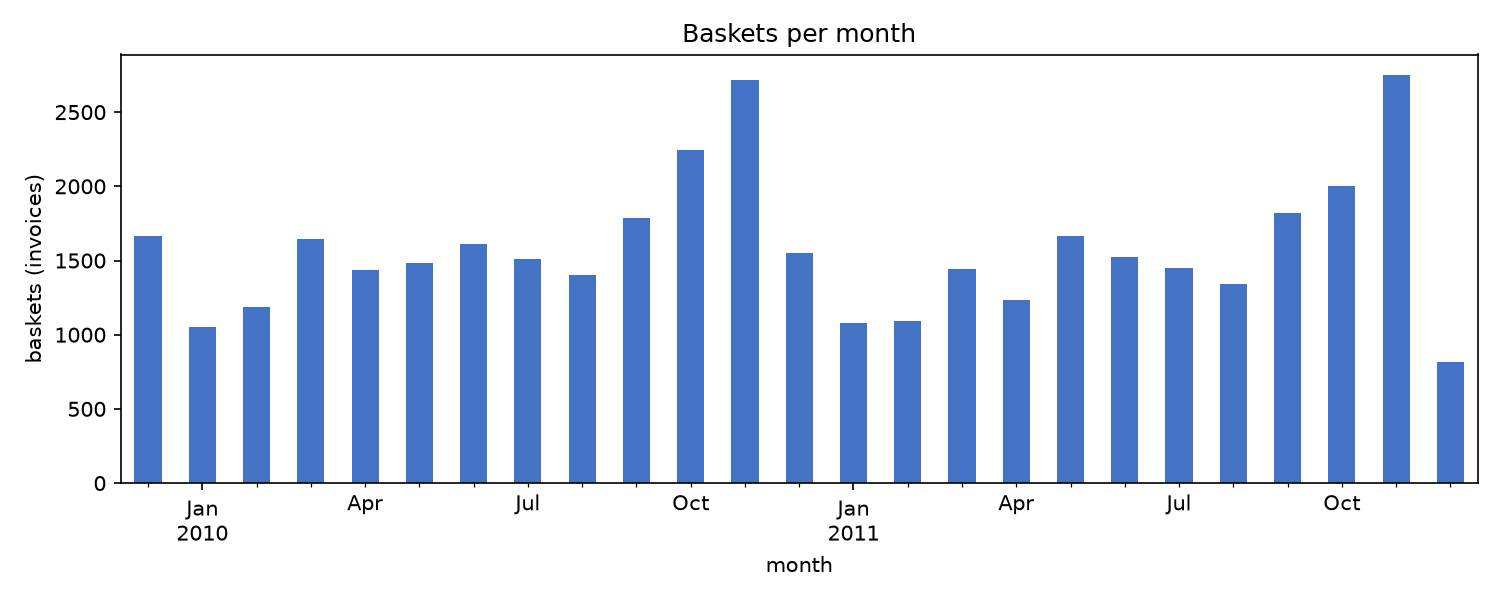
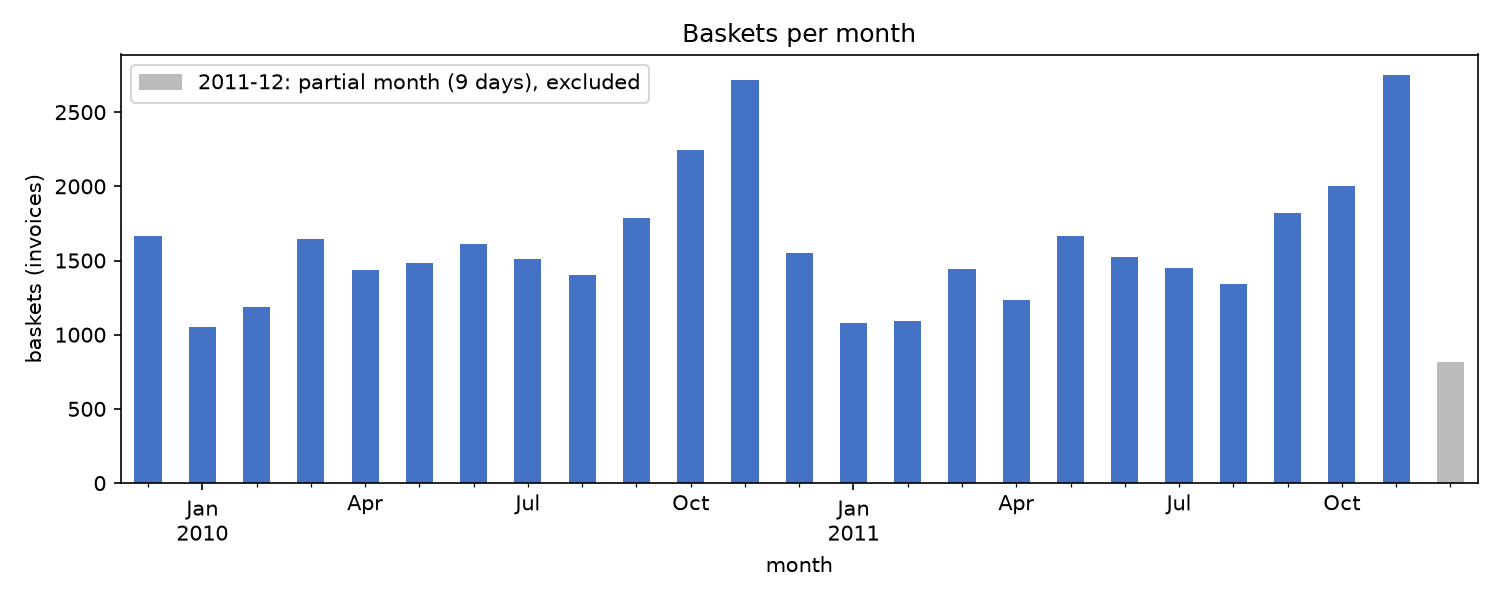
Ignore symlinked data/venv, extend T1 log, mark partial month in F1

Changed region(s): [[0.092, 0.09, 0.4293, 0.18], [0.9507, 0.6, 0.9813, 0.81]]

diff --git a/src/clean.py b/src/clean.py
@@ -11,6 +11,7 @@ ROOT = Path(__file__).resolve().parent.parent
 RAW = ROOT / "data" / "raw" / "online_retail_II.xlsx"
 INTERIM = ROOT / "data" / "interim"
 RESULTS = ROOT / "results"
+LOG = RESULTS / "cleaning_log.csv"
 
 Y1 = ("2009-12-01", "2010-12-01")  # year 1: 2009-12 .. 2010-11
 Y2 = ("2010-12-01", "2011-12-01")  # year 2: 2010-12 .. 2011-11
@@ -52,19 +53,21 @@ def build():
     df = df.rename(columns={"Invoice": "invoice", "StockCode": "code", "Description": "description",
                             "Quantity": "quantity", "InvoiceDate": "date", "Price": "price", "Country": "country"})
     log.append(("8 result", len(df)))
+    log.append(("9 baskets (invoices)", df.invoice.nunique()))
+    log.append(("10 distinct product codes", df.code.nunique()))
     return df.reset_index(drop=True), log
 
 
 def load_lines():
     """Cleaned order lines (cached parquet). Columns: invoice, code, description, quantity, date, price, customer, country."""
     path = _cache_path()
-    if path.exists():
+    if path.exists() and LOG.exists():  # rebuild if the log is missing, so T1 always has it
         return pd.read_parquet(path)
     lines, log = build()
     INTERIM.mkdir(parents=True, exist_ok=True)
     lines.to_parquet(path)
     RESULTS.mkdir(exist_ok=True)
-    pd.DataFrame(log, columns=["step", "rows"]).to_csv(RESULTS / "cleaning_log.csv", index=False)
+    pd.DataFrame(log, columns=["step", "rows"]).to_csv(LOG, index=False)
     return lines
 
 
@@ -89,6 +92,6 @@ def descriptions(lines=None):
 
 if __name__ == "__main__":
     b = load_baskets()
-    print(pd.read_csv(RESULTS / "cleaning_log.csv").to_string(index=False))
+    print(pd.read_csv(LOG).to_string(index=False))
     print("baskets", len(b), "items", len({i for t in b["items"] for i in t}))
     print(b.year.value_counts().sort_index().to_dict())

diff --git a/src/run_all.py b/src/run_all.py
@@ -11,6 +11,7 @@ import matplotlib
 
 matplotlib.use("Agg")
 import matplotlib.pyplot as plt  # noqa: E402
+from matplotlib.patches import Patch  # noqa: E402
 import pandas as pd  # noqa: E402
 
 from src import apriori, clean  # noqa: E402
@@ -19,16 +20,18 @@ RESULTS = clean.RESULTS
 
 
 def t1(b):
-    """T1: rows per cleaning step (written by clean.load_lines on first build)."""
-    log = pd.read_csv(RESULTS / "cleaning_log.csv")
+    """T1: rows per cleaning step, then basket and product counts (written by clean.load_lines when it builds)."""
+    log = pd.read_csv(clean.LOG)
     print(log.to_string(index=False))
 
 
 def f1(b):
-    """F1: baskets per month."""
+    """F1: baskets per month. 2011-12 (9 days) is drawn grey: partial month, excluded (plan §1)."""
     m = b.groupby(b.date.dt.to_period("M")).size()
     m.to_csv(RESULTS / "f1_monthly_baskets.csv", header=["baskets"])
-    ax = m.plot(kind="bar", figsize=(10, 4), color="#4472c4")
+    partial = pd.Period("2011-12", "M")
+    ax = m.plot(kind="bar", figsize=(10, 4), color=["#bbbbbb" if p == partial else "#4472c4" for p in m.index])
+    ax.legend(handles=[Patch(color="#bbbbbb", label="2011-12: partial month (9 days), excluded")], loc="upper left")
     ax.set_xlabel("month")
     ax.set_ylabel("baskets (invoices)")
     ax.set_title("Baskets per month")

diff --git a/reviews/draft1_review.md b/reviews/draft1_review.md
@@ -19,7 +19,7 @@
 
 ### high
 
-1. `.gitignore`: `data/`, `.venv/`가 심볼릭 링크를 막지 못한다. 원본 체크아웃에는 링크가 없고, worktree(`.claude/worktrees/draft-v1`)의 `data`, `.venv` 링크만 미추적으로 보인다. 거기서 `git add -A`를 하면 커밋될 수 있다. 슬래시 없는 `data`, `.venv`로 바꾼다.
+1. `.gitignore`: `data/`, `.venv/`가 심볼릭 링크를 막지 못한다. 원본 체크아웃에는 링크가 없고, worktree(`.claude/worktrees/draft-v1`)의 `data`, `.venv` 링크만 미추적으로 보인다. 거기서 `git add -A`를 하면 커밋될 수 있다. 슬래시 없는 `data`, `.venv`로 바꾼다. **해결 (11/11):** 슬래시 없는 패턴으로 바꿨다. `git check-ignore`로 링크가 무시되는 것을 확인했다.
 2. `src/agent.py` `season_filter`: 키워드를 부분 문자열로 맞춘다. "christmas 2011", "summer season" 같은 데이터에 없는 기간(함정)에도 315개를 반환한다. "november 2010"은 0개를 반환한다. 연도와 월을 파싱하거나 period를 enum으로 바꾼다.
 3. TLS: venv Python(python.org 3.14)에 CA 인증서가 없어 Solar 호출이 `CERTIFICATE_VERIFY_FAILED`로 실패한다. `Install Certificates.command`를 실행하거나 `SSL_CERT_FILE=/etc/ssl/cert.pem`을 쓴다. README에 적는다. **해결 (11/5):** `agent.py`가 certifi CA 번들을 쓰고, README Solar 절에 적었다.
 
@@ -40,7 +40,7 @@
 
 - plan 수치 정정이 필요하다. 상품 수 4,877은 대문자 통일 전 값이고 실제는 4,707이다. 최대 장바구니 크기는 1,108이 아니라 1,106이다. plan은 동결이므로 보고서에 주석을 단다.
 - T3에 상품 support 최댓값(0.162)이 없다 (plan §1).
-- T1 로그에 장바구니 수와 상품 수 줄이 없다. `cleaning_log.csv`는 캐시를 처음 만들 때만 써진다.
+- T1 로그에 장바구니 수와 상품 수 줄이 없다. `cleaning_log.csv`는 캐시를 처음 만들 때만 써진다. **해결 (11/11):** 장바구니 수(39,516)와 상품 수(4,707) 줄을 데이터에서 계산해 추가했다. 로그 파일이 없으면 캐시를 다시 만들어 로그도 다시 쓴다.
 - 캐시 이름이 `lines_…`이다. plan은 `baskets_…`이다.
 - `timings.csv`의 CPU가 "arm"으로만 기록된다.
 - `min_count` 테스트가 없다. pytest가 없어 `python -m tests.x`로만 돈다. (README Reproduce 절에 실행 명령을 적었다.)
@@ -49,7 +49,7 @@
 - `rules_for("")`가 189개 전부를 반환한다. `top_rules(limit=-1)`도 결과를 낸다.
 - `.env` 탐색이 루트까지 올라간다. 기록되는 모델 ID가 응답 값이 아니라 상수다.
 - 붙여 넣기 프롬프트에는 규칙 약 504개(31k자)가 들어간다. plan은 약 200개로 가정했다.
-- F1의 2011-12는 9일뿐인 부분 월이다. 표시가 필요하다.
+- F1의 2011-12는 9일뿐인 부분 월이다. 표시가 필요하다. **해결 (11/11):** 2011-12 막대를 회색으로 그리고 "partial month, excluded" 범례를 달았다. `f1_monthly_baskets.csv`는 그대로다.
 - 가변 기본 인자 캐시와 `searchsorted` 역산은 학생이 설명하기 어렵다.
 
 ## 리뷰 이후 추가로 찾은 것 (11/5, 레포·문서 대조 점검)
